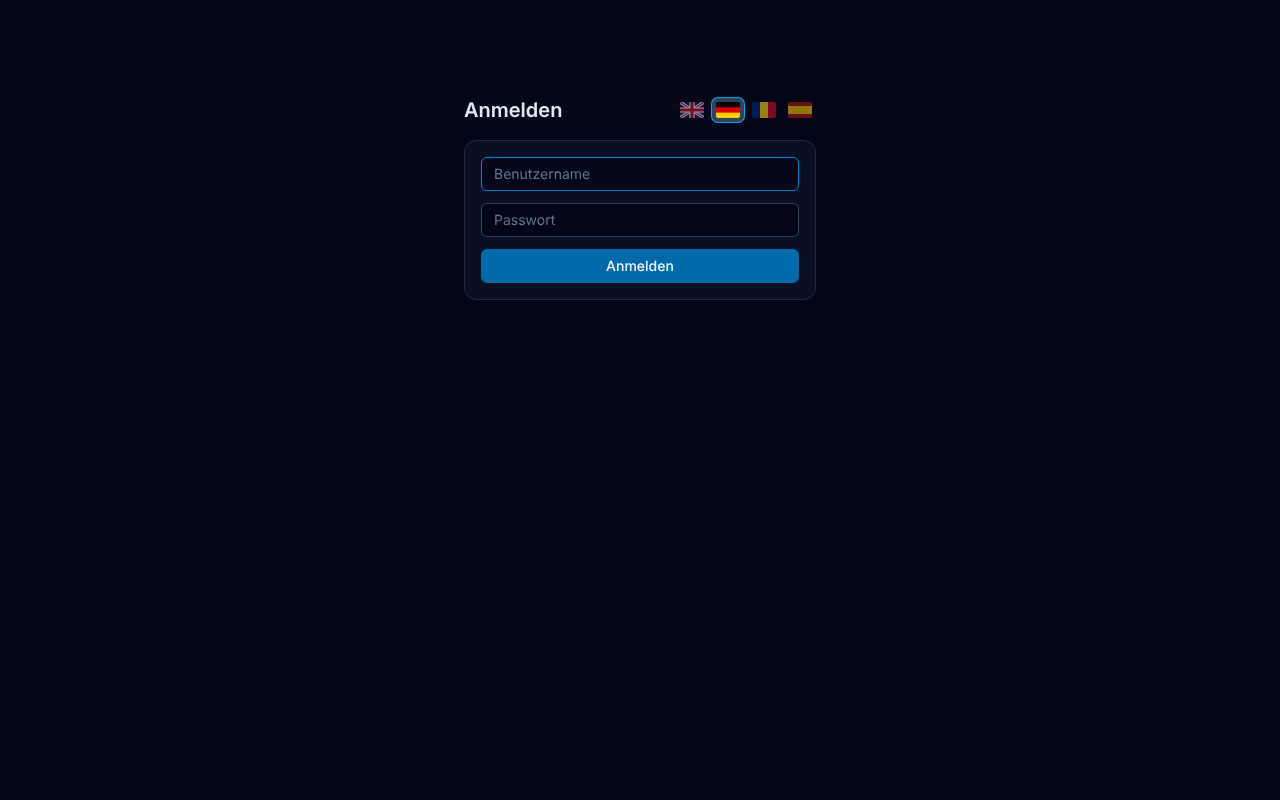
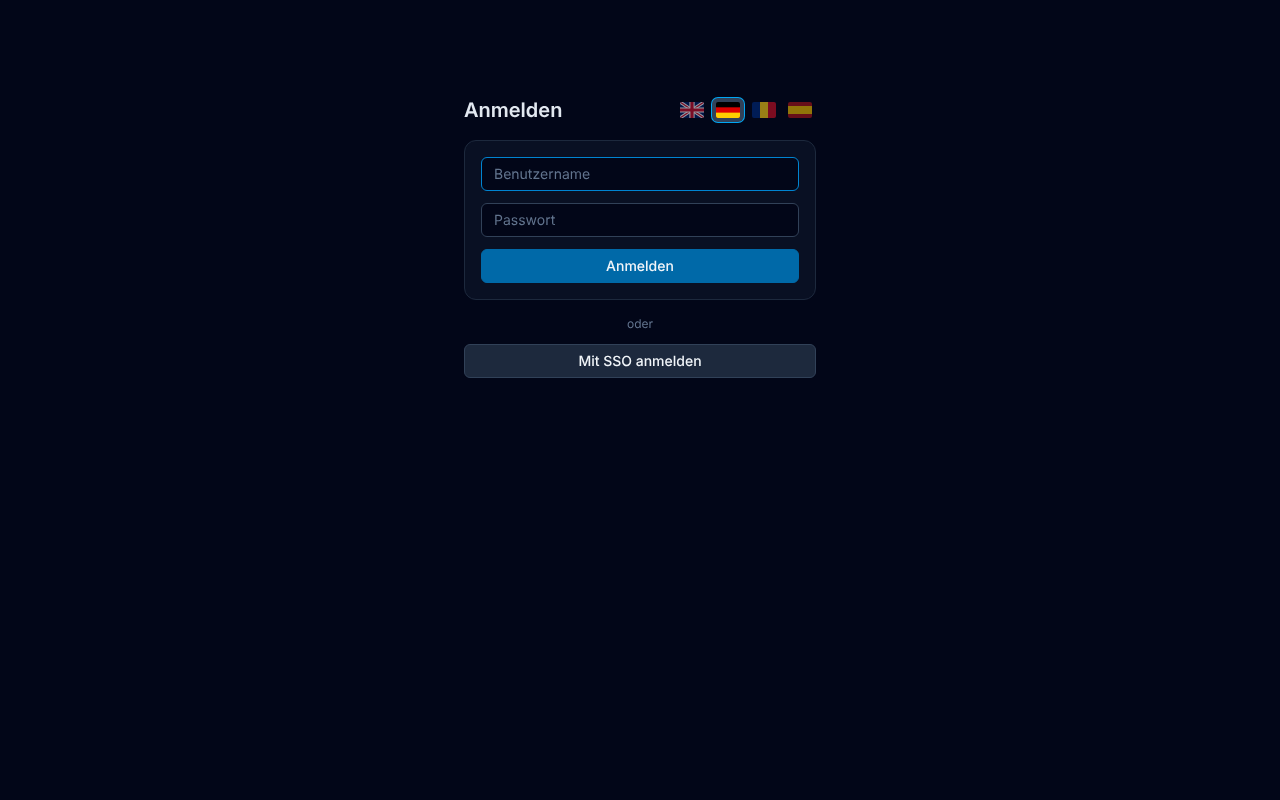
Docs: SSO im Benutzerhandbuch (Anmeldung, Abmelden, Hinweise) und Abschnitt Anmeldung in der Architektur; neuer Anmelde-Screenshot (#53)
Claude-Session: https://claude.ai/code/session_01Mw1eJcjz1zhTj6DqA4m2yv

Changed region(s): [[0.3438, 0.4062, 0.6562, 0.5]]

diff --git a/docs/benutzerhandbuch.md b/docs/benutzerhandbuch.md
@@ -40,10 +40,13 @@ PodmanManager **löscht, ändert und legt keine Anwendungen an**. Für Sie gibt 
 **Anmelden**
 
 1. Öffnen Sie die Adresse im Browser, die Ihnen Ihr Administrator genannt hat (zum Beispiel `http://master.firma.example:8080`).
-2. Geben Sie Ihren **Benutzernamen** und Ihr **Passwort** ein. Es sind dieselben Zugangsdaten wie bei Ihrer normalen Anmeldung im Firmennetz.
-3. Klicken Sie auf **Anmelden**.
+2. Melden Sie sich an, auf **einem von zwei Wegen**:
+   - **Mit Benutzername und Passwort:** Geben Sie Ihren **Benutzernamen** und Ihr **Passwort** ein und klicken Sie auf **Anmelden**. Es sind dieselben Zugangsdaten wie bei Ihrer normalen Anmeldung im Firmennetz.
+   - **Mit SSO (Einmalanmeldung):** Klicken Sie auf **Mit SSO anmelden** (Ihr Unternehmen kann den Text geändert haben). Sie werden zur Anmeldung Ihres Unternehmens weitergeleitet und danach automatisch zurückgebracht. Sind Sie am Firmenrechner bereits angemeldet, geht das meist **ohne erneute Eingabe**.
 
 ![Anmeldeseite](screenshots/handbuch/01-anmeldung.png)
+
+Der SSO-Knopf erscheint nur, wenn Ihr Administrator SSO eingerichtet hat. Welchen Weg Sie nutzen, ist egal; Sie sehen danach dieselben Rechner und Anwendungen, nämlich die Ihrer Gruppen.
 
 Oben rechts können Sie schon hier die **Sprache** wählen (Flaggen).
 
@@ -51,11 +54,14 @@ Gut zu wissen:
 
 - Nach **mehreren falschen Eingaben innerhalb einer Minute** erscheint „Zu viele Fehlversuche. Bitte in einer Minute erneut versuchen.“ Warten Sie kurz und versuchen Sie es noch einmal.
 - Wenn „Benutzername oder Passwort ungültig“ erscheint, obwohl Sie sicher sind: Fragen Sie Ihren Administrator, ob Ihr Konto für PodmanManager freigeschaltet ist.
+- Wenn Sie sich per **SSO** erfolgreich anmelden, aber eine Meldung wie „Ihr Konto gehört zu keiner Gruppe“ erscheint, ist Ihr Konto noch keiner Gruppe zugeordnet. Der Administrator muss das einrichten. Erscheint stattdessen eine Fehlerseite des Unternehmens, melden Sie dem Administrator die genaue Meldung und die Uhrzeit.
 - Aus Sicherheitsgründen werden Sie nach **8 Stunden automatisch abgemeldet** und müssen sich neu anmelden.
 
 **Abmelden**
 
 Öffnen Sie **Einstellungen** und klicken Sie unten auf **Abmelden**. Das sollten Sie tun, wenn Sie einen Rechner mit anderen teilen.
+
+**Hinweis bei SSO:** Das Abmelden beendet nur Ihre Sitzung in PodmanManager. Ihre Anmeldung im Firmennetz bleibt bestehen. Ein Klick auf **Mit SSO anmelden** meldet Sie deshalb **ohne Passwort wieder an**. Auf einem fremden oder gemeinsam genutzten Rechner melden Sie sich daher zusätzlich vom Firmennetz bzw. Ihrem Windows-Konto ab und schließen den Browser.
 
 ## 3. Die Oberfläche im Überblick
 
@@ -251,7 +257,7 @@ Fehlt Ihnen etwas davon, wenden Sie sich an Ihren Administrator.
 
 | Problem | Was Sie tun können |
 |---|---|
-| Ich kann mich nicht anmelden | Benutzernamen und Passwort wie im Firmennetz verwenden. Bei „Zu viele Fehlversuche“ eine Minute warten. Hilft das nicht: Administrator fragen, ob Ihr Konto freigeschaltet ist. |
+| Ich kann mich nicht anmelden | Benutzernamen und Passwort wie im Firmennetz verwenden, oder **Mit SSO anmelden** versuchen, falls vorhanden. Bei „Zu viele Fehlversuche“ eine Minute warten. Hilft das nicht: Administrator fragen, ob Ihr Konto freigeschaltet ist. |
 | Ich sehe einen Rechner nicht, den ich erwarte | Er ist nicht für Ihre Gruppe freigegeben. Administrator bitten, Ihre Gruppe zu erweitern. Danach neu anmelden oder die Seite neu laden. |
 | Ich sehe eine Anwendung nicht | Sie kann für Sie ausgeblendet sein. Wenden Sie sich an den Administrator. |
 | Die Anzeige ist nicht aktuell | Seite neu laden (**F5**). Die Seiten aktualisieren sich nicht von selbst. |

diff --git a/docs/architecture.md b/docs/architecture.md
@@ -15,6 +15,19 @@ Der Browser spricht nur mit dem Master. Der Master fragt Agents serverseitig ab;
 - **Container:** Werden bei jedem Seitenaufruf live von den Agents geladen. Die DB ist dafür nicht maßgeblich. Nicht abfragbare Hosts werden separat ausgewiesen, nie als „0 Container".
 - **Aktionen:** UI → Server Action (Login geprüft) → Agent `POST /containers/:id/{start|stop|restart}` → Podman. Danach liefert der Agent den frischen Containerzustand zurück.
 
+## Anmeldung
+Der Master kennt drei Arten, sich anzumelden. Welche verfügbar sind, legt der lokale `admin` in den Einstellungen fest:
+
+| Art | Zugangsdaten | Wer pflegt Benutzer und Gruppen |
+|---|---|---|
+| **Lokal** | Konto `admin` (Notzugang, immer vorhanden), Passwort in der Datenbank (gehasht) | Master |
+| **LDAP / Active Directory** (optional) | Benutzername und Passwort, gegen das Verzeichnis geprüft | Verzeichnis (Gruppen → Agent-Gruppen) |
+| **SSO per SAML 2.0 mit ADFS** (optional) | Button auf der Anmeldeseite; die Anmeldung erfolgt beim Identitätsanbieter, der Master bekommt eine **signierte Assertion** mit Benutzername und Gruppen | ADFS / Active Directory (Gruppen-Claim → Agent-Gruppen) |
+
+Ablauf bei SSO: `/saml/login` legt eine einmalige Anfrage an und leitet zu ADFS weiter → ADFS authentifiziert den Benutzer (bei Domänen-Rechnern meist ohne Eingabe) → der Browser schickt die Antwort per POST an `/saml/acs` → der Master prüft Signatur, Aussteller, Empfänger und Zeitfenster, verbraucht die Anfrage (keine Wiederverwendung) und liest Benutzername und Gruppen → Sitzung. `/saml/metadata` liefert die Master-Seite für die ADFS-Einrichtung. Einrichtung, Claims und Fehlersuche: [SSO mit SAML 2.0 und ADFS](sso-adfs.md).
+
+Nach der Anmeldung sind alle Arten gleich: Die Sitzung (Cookie, 8 Stunden) hat `access = all` (lokaler `admin`, Mitglieder der Administratoren-Gruppe) oder `access = groups` (nur die Agents der zugeordneten Gruppen; Mitglieder ohne Gruppe werden abgewiesen). Der Zugriffsbereich wird serverseitig bei jeder Seite und jeder Aktion geprüft. Einstellungen, Host-Verwaltung, Logs, Updates und das Löschen von Images sind nur mit `access = all` möglich; die Einstellungen (Passwort, LDAP, SSO, Gruppen, Branding) zusätzlich nur für den lokalen `admin`. SSO meldet beim Abmelden nur die Master-Sitzung ab (kein Single Logout).
+
 ## Host-Status
 `unknown` (noch nicht geprüft) · `online` · `degraded` (Agent erreichbar, Podman-Socket/API defekt) · `offline` · `disabled` (kein Zugriff, keine Aktionen).
 
